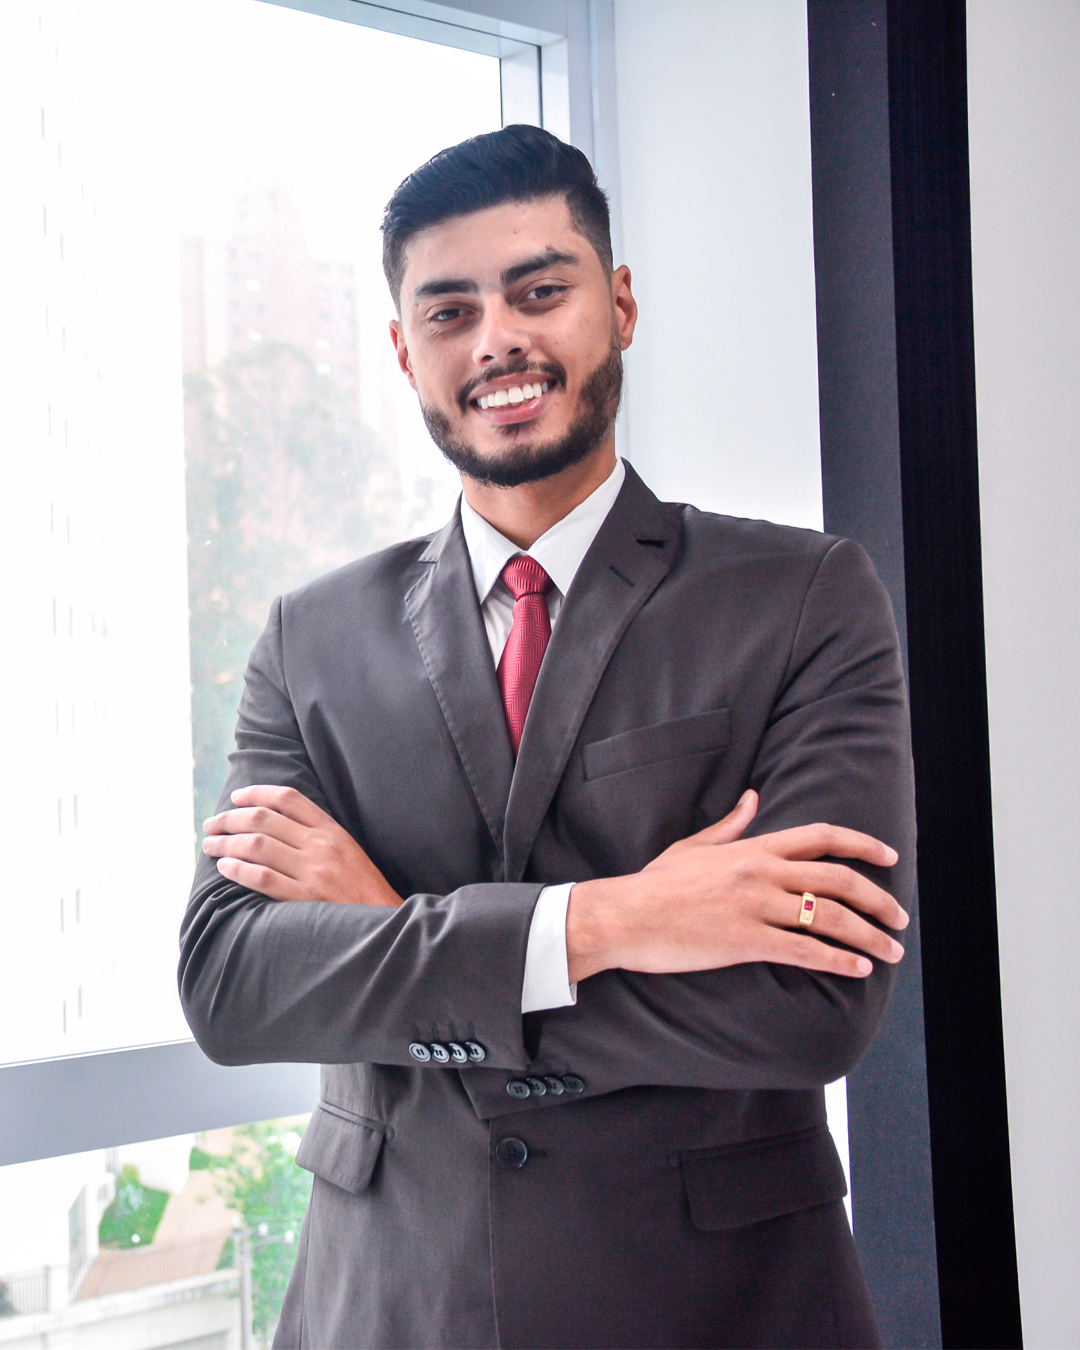
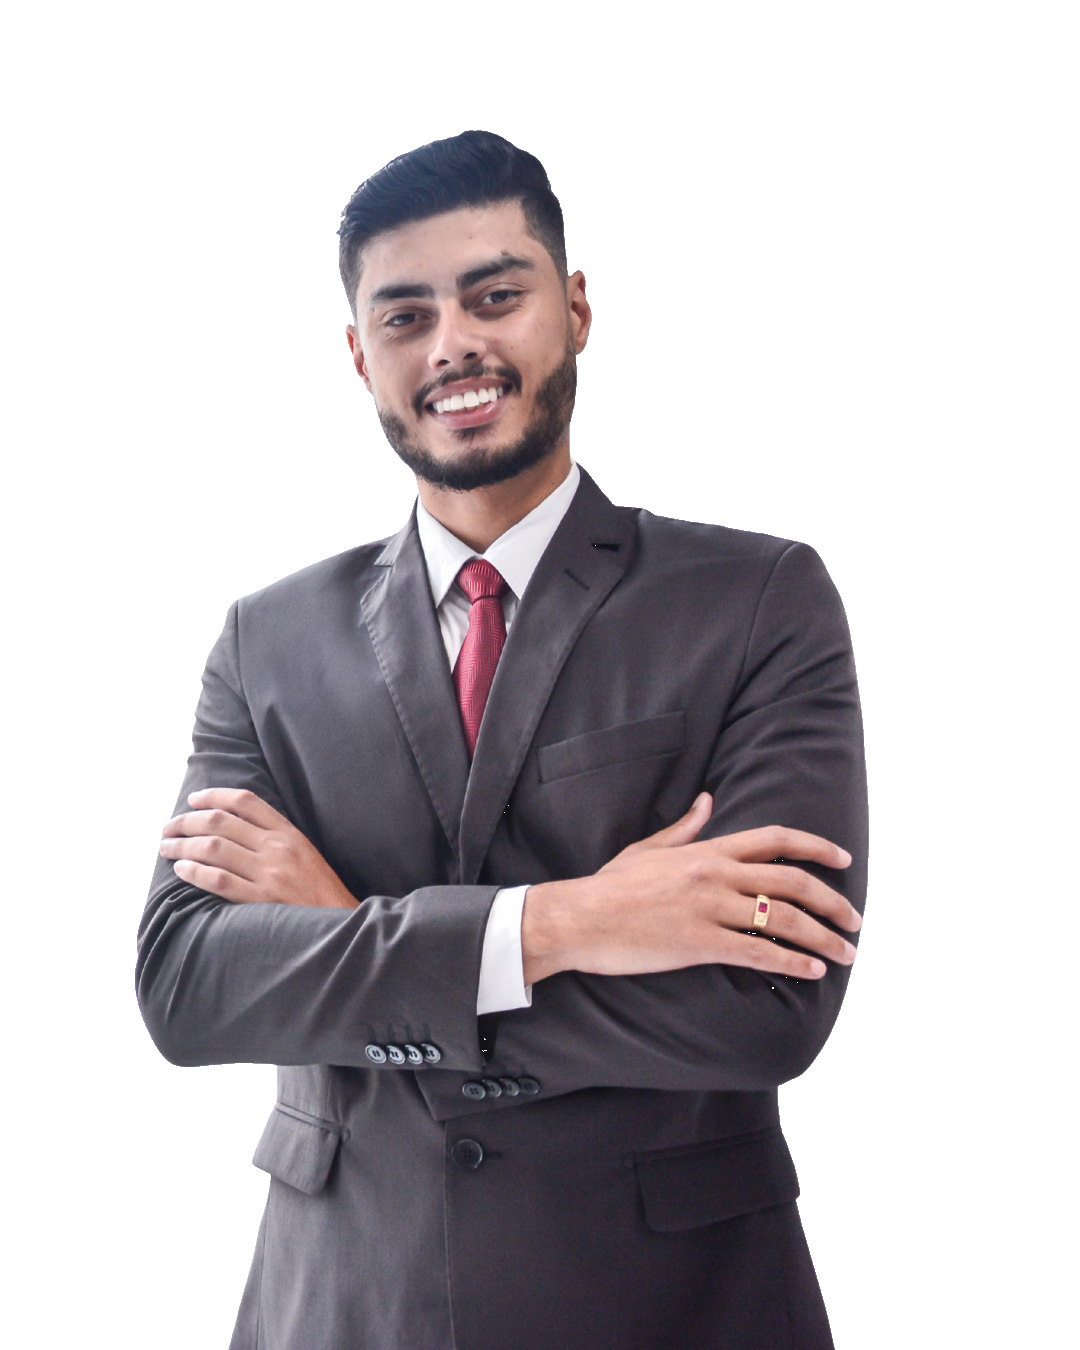
att

diff --git a/index.html b/index.html
@@ -187,7 +187,7 @@
     border-radius:var(--r-lg);
     overflow:hidden;
     box-shadow:var(--shadow-lg);
-    background:var(--bone-2);
+    background:var(--paper);
   }
   .photo-frame img{
     width:100%;height:100%;object-fit:cover;object-position:60% center;
